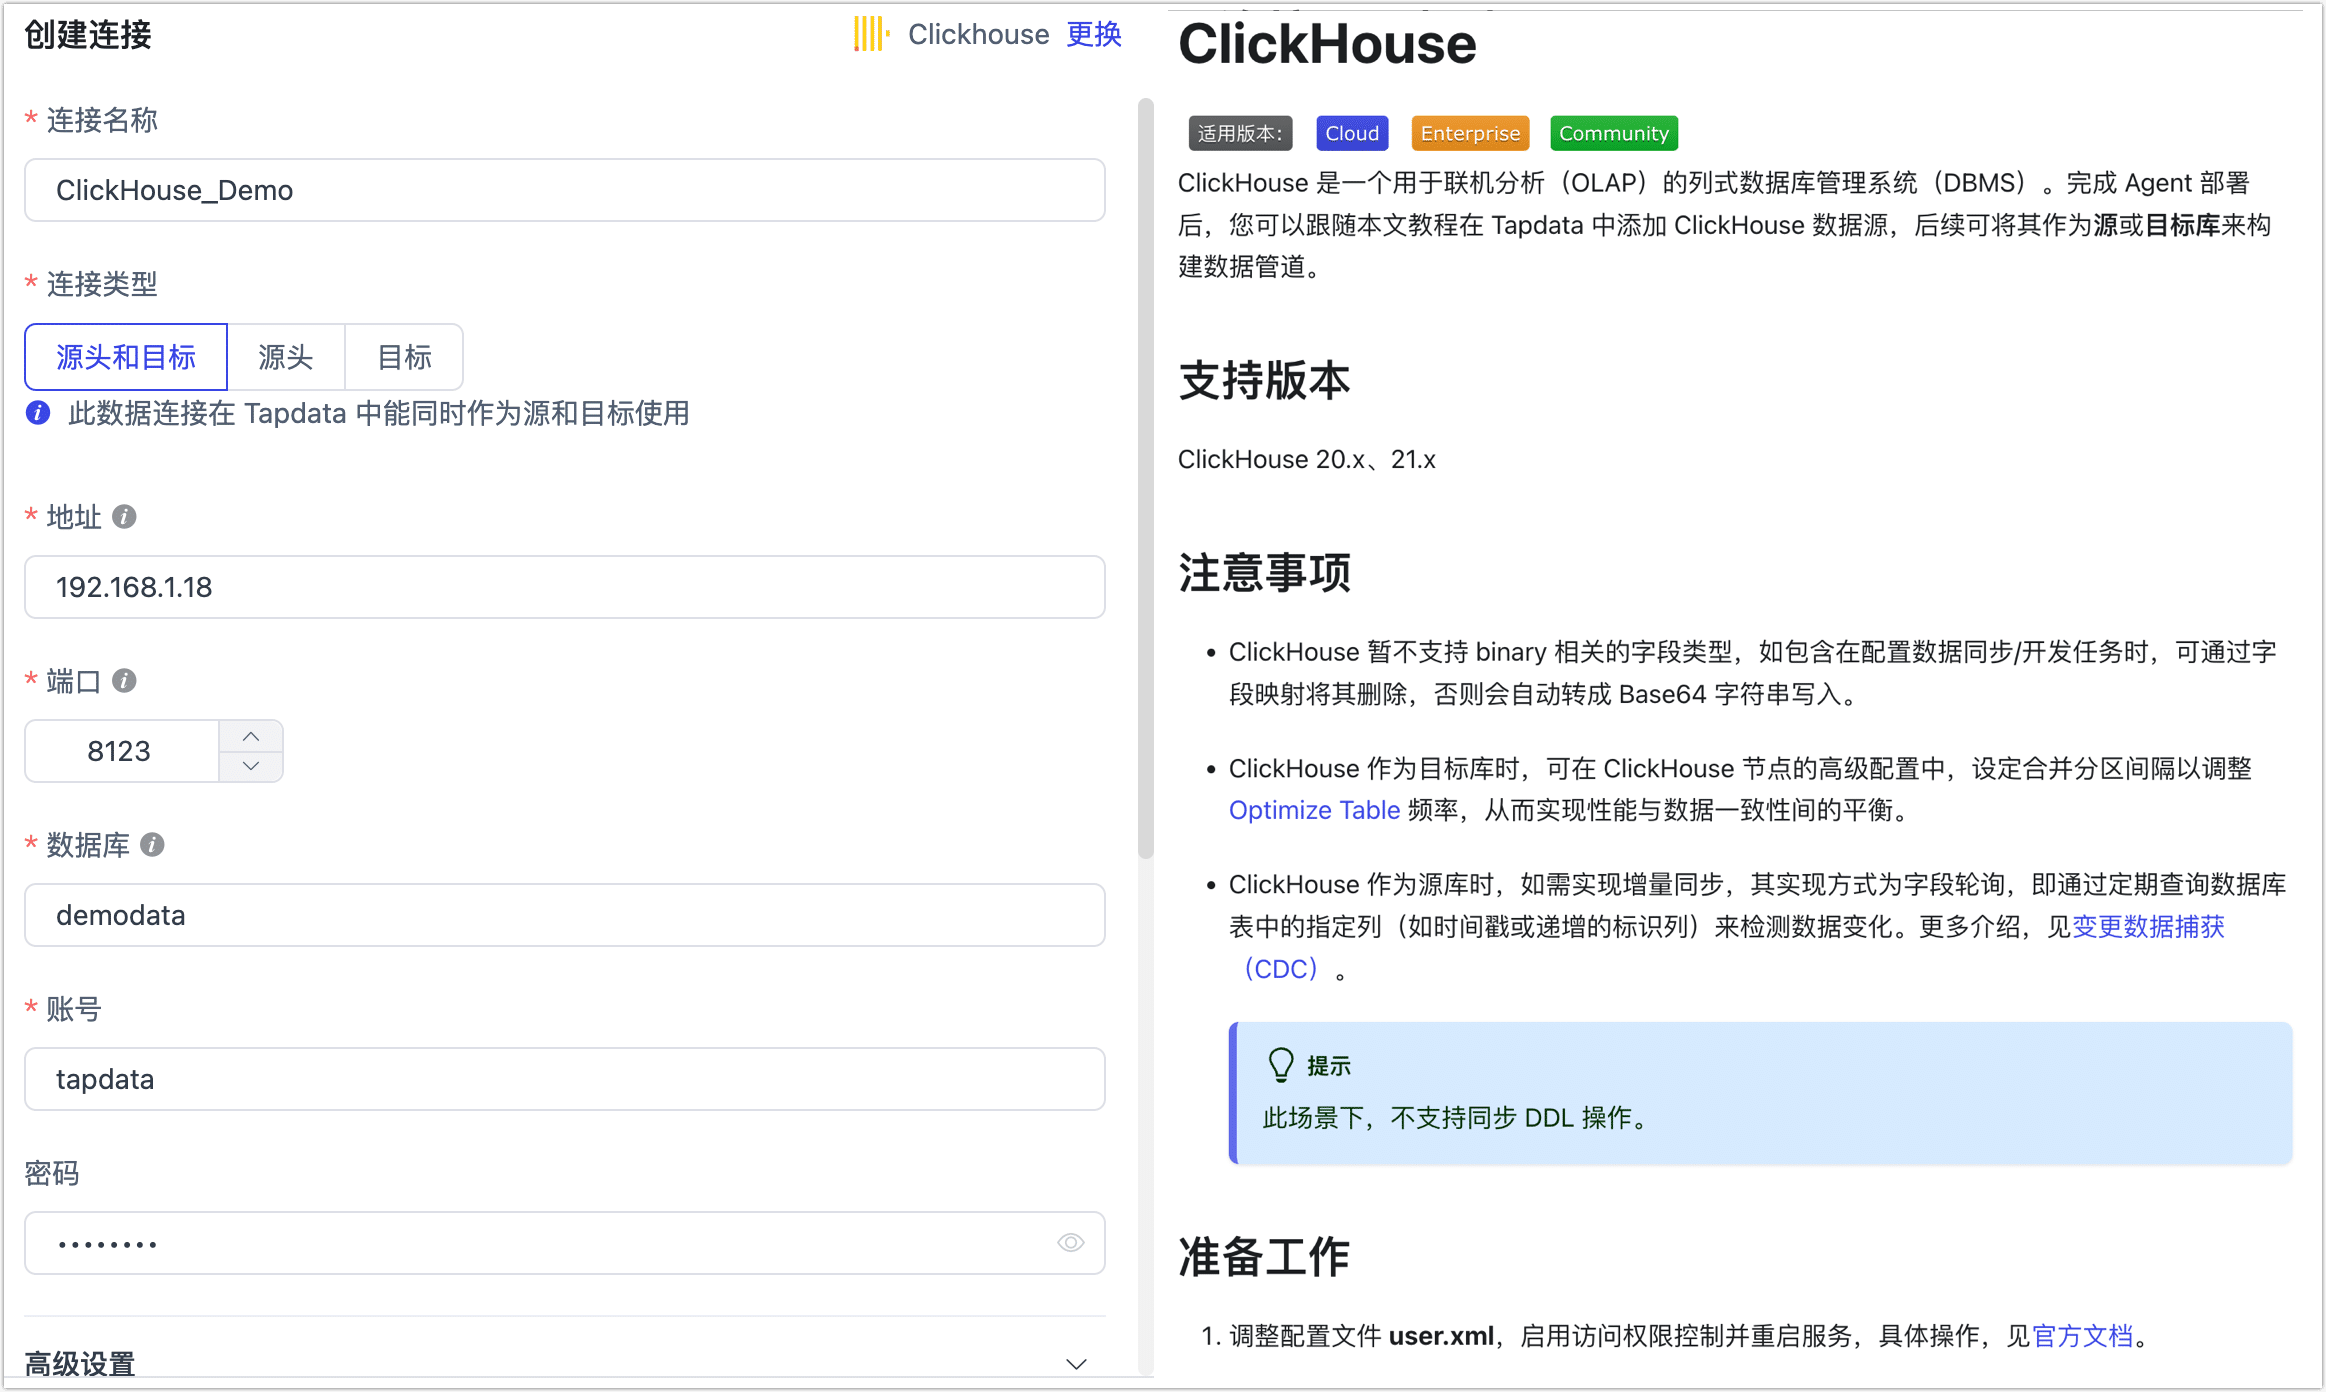
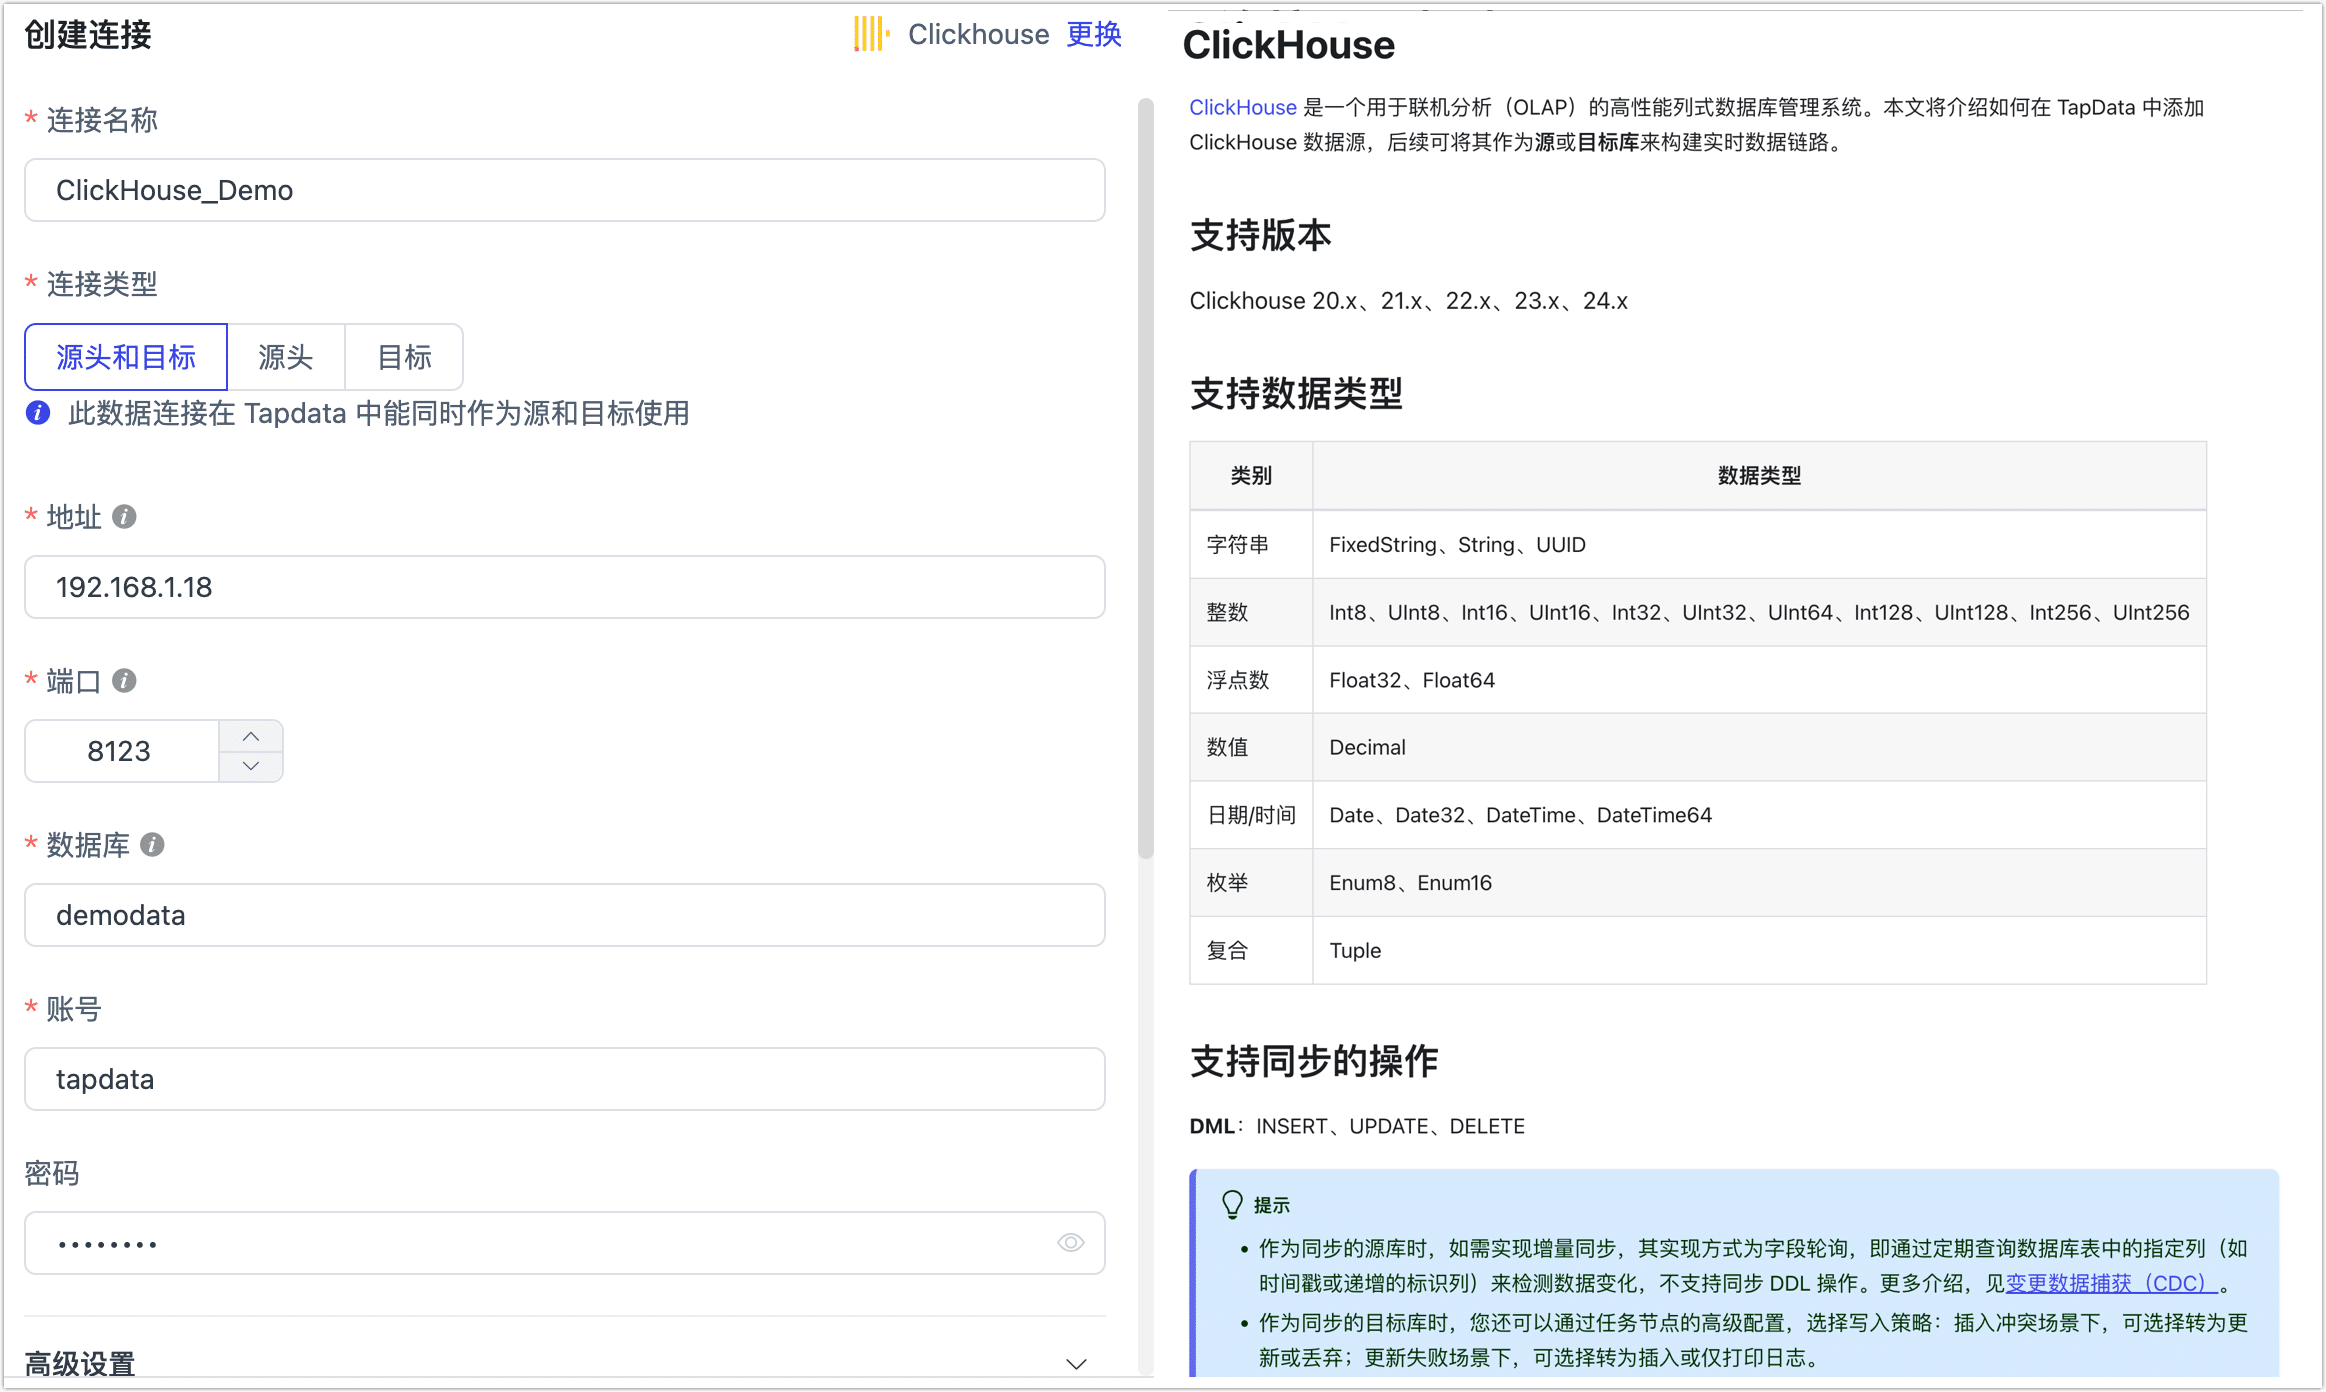
Update ClickHouse Part2

Changed region(s): [[0.4953, 0.2471, 0.9905, 0.9885], [0.4953, 0.0, 0.9905, 0.2162], [0.7429, 0.3089, 0.7739, 0.3707]]

diff --git a/docs/prerequisites/warehouses-and-lake/clickhouse.md b/docs/prerequisites/warehouses-and-lake/clickhouse.md
@@ -3,7 +3,7 @@ import Content from '../../reuse-content/_all-features.md';
 
 <Content />
 
-ClickHouse 是一个用于联机分析（OLAP）的列式数据库管理系统（DBMS）。完成 Agent 部署后，您可以跟随本文教程在 Tapdata 中添加 ClickHouse 数据源，后续可将其作为**源**或**目标库**来构建数据管道。
+[ClickHouse](https://clickhouse.com/) 是一个用于联机分析（OLAP）的高性能列式数据库管理系统。本文将介绍如何在 TapData 中添加 ClickHouse 数据源，后续可将其作为**源**或**目标库**来构建实时数据链路。
 
 ```mdx-code-block
 import Tabs from '@theme/Tabs';
@@ -12,19 +12,35 @@ import TabItem from '@theme/TabItem';
 
 ## 支持版本
 
-ClickHouse 20.x、21.x
+Clickhouse 20.x、21.x、22.x、23.x、24.x
+
+## 支持数据类型
+
+| 类别      | 数据类型                                                     |
+| --------- | ------------------------------------------------------------ |
+| 字符串    | FixedString、String、UUID                                    |
+| 整数      | Int8、UInt8、Int16、UInt16、Int32、UInt32、UInt64、Int128、UInt128、Int256、UInt256 |
+| 浮点数    | Float32、Float64                                             |
+| 数值      | Decimal                                                      |
+| 日期/时间 | Date、Date32、DateTime、DateTime64                           |
+| 枚举      | Enum8、Enum16                                                |
+| 复合      | Tuple                                                        |
+
+## 支持同步的操作
+
+**DML**：INSERT、UPDATE、DELETE
+
+:::tip
+
+* 作为同步的源库时，如需实现增量同步，其实现方式为字段轮询，即通过定期查询数据库表中的指定列（如时间戳或递增的标识列）来检测数据变化，不支持同步 DDL 操作。更多介绍，见[变更数据捕获（CDC）](../../introduction/change-data-capture-mechanism)。
+* 作为同步的目标库时，您还可以通过任务节点的高级配置，选择写入策略：插入冲突场景下，可选择转为更新或丢弃；更新失败场景下，可选择转为插入或仅打印日志。
+
+:::
 
 ## 注意事项
 
-- ClickHouse 暂不支持 binary 相关的字段类型，如包含在配置数据同步/开发任务时，可通过字段映射将其删除，否则会自动转成 Base64 字符串写入。
-- ClickHouse 作为目标库时，可在 ClickHouse 节点的高级配置中，设定合并分区间隔以调整 [Optimize Table](https://clickhouse.com/docs/en/sql-reference/statements/optimize) 频率，从而实现性能与数据一致性间的平衡。
-- ClickHouse 作为源库时，如需实现增量同步，其实现方式为字段轮询，即通过定期查询数据库表中的指定列（如时间戳或递增的标识列）来检测数据变化。更多介绍，见[变更数据捕获（CDC）](../../introduction/change-data-capture-mechanism)。
-
-  :::tip
-
-  此场景下，不支持同步 DDL 操作。
-
-  :::
+* 暂不支持 **BINARY** 相关的字段类型，如包含在配置数据同步/开发任务时，可通过字段映射将其删除，否则会自动转成 Base64 字符串写入。
+* 作为同步的目标库时，如果选择由 TapData 自动建表，源表有主键时使用 `ReplacingMergeTree` 引擎，主键字段作为排序键；无主键时使用 `MergeTree` 引擎，排序键位空。
 
 ## 准备工作
 
@@ -76,7 +92,7 @@ GRANT SELECT, INSERT, CREATE TABLE, ALTER TABLE, ALTER UPDATE, DROP TABLE, TRUNC
    * **database_name**：要授予权限的数据库名称。
    * **usernmae**：用户名。
 
-## 添加数据源
+## 连接 ClickHouse
 
 1. [登录 Tapdata 平台](../../user-guide/log-in.md)。
 
@@ -84,25 +100,25 @@ GRANT SELECT, INSERT, CREATE TABLE, ALTER TABLE, ALTER UPDATE, DROP TABLE, TRUNC
 
 3. 在页面右侧，单击**创建连接**。
 
-4. 在跳转到的页面，单击**认证数据源**标签页，然后选择 **ClickHouse**。
+4. 在弹出的对话框中，搜索并选择 **ClickHouse**。
 
 5. 根据下述说明完成数据源配置。
 
    ![clickhouse_connection](../../images/clickhouse_connection.png)
 
-   * 连接信息设置
+   * **连接设置**
       * **连接名称**：填写具有业务意义的独有名称。
-      * **连接类型**：仅支持将 ClickHouse 数据库作为目标。
+      * **连接类型**：支持将 ClickHouse 作为源或目标库。
       * **地址**：数据库连接地址。
       * **端口**：数据库的 HTTP API 服务端口，默认为 **8123**，如开启了 SSL 加密，默认端口为 8443，更多介绍，见[网络端口说明](https://clickhouse.com/docs/en/guides/sre/network-ports/)。
       * **数据库名称**：数据库名称，即一个连接对应一个数据库，如有多个数据库则需创建多个数据连接。
       * **账号**、**密码**：数据库的账号和密码。
-   * 高级设置
+   * **高级设置**
       * **连接参数**：额外的连接参数，默认为空。
-      * **时区**：默认为数据库所用的时区，您也可以根据业务需求手动指定。
+      * **时区**：默认时区为 0 时区（UTC），如果设置为其他时区，将影响数据同步的时间准确性，特别是对于不带时区信息的字段（如 `DateTime`）。
       * **Agent 设置**：默认为**平台自动分配**，您也可以手动指定。
-      * **模型加载时间**：当数据源中模型数量小于 10,000 时，每小时刷新一次模型信息；如果模型数据超过 10,000，则每天按照您指定的时间刷新模型信息。
-      * **开启心跳表**：当连接类型选择为**源头和目标**、**源头**时，支持打开该开关，由 Tapdata 在源库中创建一个名为 **_tapdata_heartbeat_table** 的心跳表并每隔 10 秒更新一次其中的数据（数据库账号需具备相关权限），用于数据源连接与任务的健康度监测，更多介绍，见[通过心跳表监测数据同步链路](../../best-practice/heart-beat-task.md)。
+      * **模型加载时间**：如果数据源中的模型数量少于10,000个，则每小时更新一次模型信息。但如果模型数量超过10,000个，则刷新将在您指定的时间每天进行。
+      * **开启心跳表**：当连接类型为源头或目标时，可启用该开关。TapData 会在源库创建 `_tapdata_heartbeat_table` 心跳表，并每 10 秒更新一次（需具备相应权限），用于监测数据源连接与任务的健康状况。心跳任务在数据复制/开发任务启动后自动启动，您可在数据源编辑页面[查看心跳任务](../../best-practice/heart-beat-task.md)。
 
 6. 单击**连接测试**，测试通过后单击**保存**。
 
@@ -112,3 +128,21 @@ GRANT SELECT, INSERT, CREATE TABLE, ALTER TABLE, ALTER UPDATE, DROP TABLE, TRUNC
 
    :::
 
+## 节点高级特性
+
+在配置数据同步/转换任务时，将 ClickHouse 作为目标节点时，可在节点的高级配置中，设定合并分区间隔以调整 [Optimize Table](https://clickhouse.com/docs/en/sql-reference/statements/optimize) 频率，从而实现性能与数据一致性间的平衡。
+
+![ClickHouse 节点高级特性](../../images/clickhouse_node_advanced_settings.png)
+
+
+
+## 性能测试
+
+### 测试环境
+
+* ClickHouse 环境：ecs.u1-c1m2.2xlarge 机型，拥有 8 CPU 核数，16 GB 内存和 100GB ESSD 磁盘。
+* 表结构：测试表拥有 53 个字段，包括 30 个长度为 8 的随机字符串、21 个随机浮点数字段,、以及 1 个主键字段、1 个标题、1 个日期字段，平均单条数据约为 1KB。
+
+### 测试结果
+
+本次性能测试模拟了全量数据写入场景，记录处理速率（RPS）最高可达 25 万。测试结果仅供当前环境下参考，并非 TapData 的性能上限。
